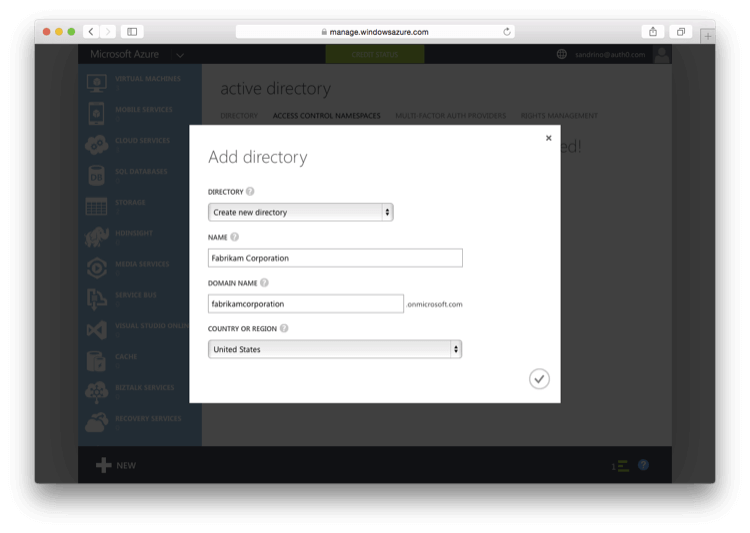
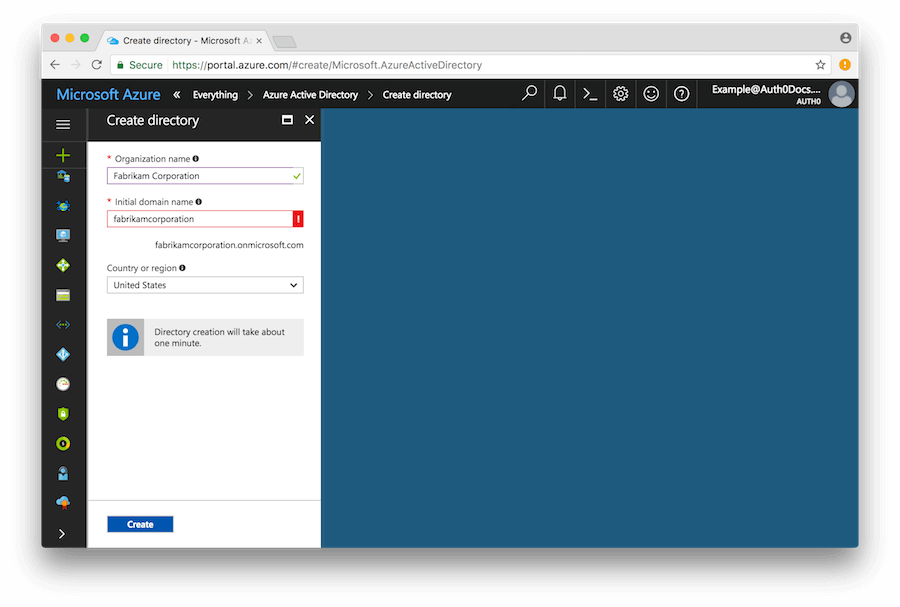
updates to first part of multi-tenant Azure AD doc
https://trello.com/c/mre8skQM/1358-building-multi

This does not complete the updates needed for this doc, just the first
parts

diff --git a/articles/tutorials/building-multi-tenant-saas-applications-with-azure-active-directory.md b/articles/tutorials/building-multi-tenant-saas-applications-with-azure-active-directory.md
@@ -2,19 +2,20 @@
 description: How to build a multi-tenant SaaS application with Azure AD and Auth0.
 ---
 
-# Building multi-tenant, SaaS applications with Azure AD and Auth0
+# Multi-tenant SaaS applications with Azure AD and Auth0
 
-Azure AD is often used as a user directory for Office 365, Intune, Dynamics CRM and applications you're building for the users in your organization.
+Azure AD is often used as a user directory for Office 365, Intune, Dynamics CRM and internal applications.
 
 ![](/media/articles/scenarios/multi-tenant-saas-azure-ad/azure-ad-mt-single-tenant-example.png)
 
-In that case the users in your organization's directory (contoso.onmicrosoft.com) will be able to access the applications you registered in your directory (Contoso Intranet and Office 365). This is how the [standard integration with Auth0 works](/waad-clientid), you'll create an application in Azure AD that points to Auth0 after which you can create it as an Azure AD Connection in the dashboard.
+In this case the users in your organization's directory (contoso.onmicrosoft.com) will be able to access the applications you registered in your directory (Contoso Intranet and Office 365). This is how the [standard integration with Auth0 works](/waad-clientid), you'll create an application in Azure AD that points to Auth0 after which you can create it as an [Azure AD connection in the dashboard](${manage_url}
+/#/connections/enterprise).
 
 A more advanced concept in Azure AD is the support for multi-tenant applications. This is where your directory can define an application (typically a SaaS application) which can be used by other directories (your customers).
 
 ![](/media/articles/scenarios/multi-tenant-saas-azure-ad/azure-ad-multi-tenant-example.png)
 
-In this example Fabrikam Corporation is an ISV hosting a Timesheet SaaS applications. They have been using Auth0 to make sure customers can login with their Facebook, Google, LinkedIn, ... accounts. But now they want to extend this support and provide SSO to organizations which are using Azure AD (or Office 365). For Fabrikam Corporation this can be a great way to attract new customers because they can offer SSO to thousands of companies already using Azure AD/Office 365 in just a few clicks.
+In this example Fabrikam Corporation is an ISV hosting a Timesheet SaaS applications. They have been using Auth0 to make sure customers can login with their Facebook, Google, LinkedIn and other accounts. But now they want to extend this support and provide SSO to organizations which are using Azure AD (or Office 365). For Fabrikam Corporation this can be a great way to attract new customers because they can offer SSO to thousands of companies already using Azure AD/Office 365 in just a few clicks.
 
 Contoso is one of their new customers which have signed up with their Azure AD. Users in this directory will now have SSO to Fabrikam's Timesheet SaaS and will be able to use their existing Contoso credentials after going through a simple consent flow.
 
@@ -24,19 +25,19 @@ This document will cover how Fabrikam can create a multi-tenant Azure AD applica
 
 Before you can create a multi-tenant application in Azure AD you'll need a Microsoft Azure subscription and a domain name (like fabrikamcorp.com). This domain name is a requirement for adding multi-tenant applications to Azure AD.
 
-## Creating an application in Auth0
+## Create a Client in Auth0
 
-We'll start by creating an application in Auth0 in which we define the Allowed Callback URLs for our application. In this example we're building an ASP.NET MVC application which runs locally and in Azure Web Sites, but keep in mind that this scenario works with any technology and any hosting platform.
+We'll start by [creating a client](${manage_url}/#/clients/) in Auth0 in which we define the **Allowed Callback URLs** for our client application. In this example we're building an ASP.NET MVC application so when creating the client type **Regular Web Application** was selected. This runs locally and in Azure Web Sites, but keep in mind that this scenario works with any technology and any hosting platform.
 
 ![](/media/articles/scenarios/multi-tenant-saas-azure-ad/azuread-mt-new-a0-app.png)
 
-## Creating an application in Azure AD
+## Create an application in Azure AD
 
-The first thing Fabrikam will do is create a new directory in Azure AD if they haven't got one already.
+The first thing is to create a new directory in Azure AD one isn't already created.
 
 ![](/media/articles/scenarios/multi-tenant-saas-azure-ad/azuread-mt-create-directory.png)
 
-The final application will be running on https://timesheets.fabrikamcorp.com so we'll need to register `fabrikamcorp.com` as a domain first before we can create the multi-tenant application.
+In this example, the final application will be running on `https://timesheets.fabrikamcorp.com` so we'll need to register `fabrikamcorp.com` as a domain before we can create the multi-tenant application.
 
 On the Domains tab you can create a new domain:
 
